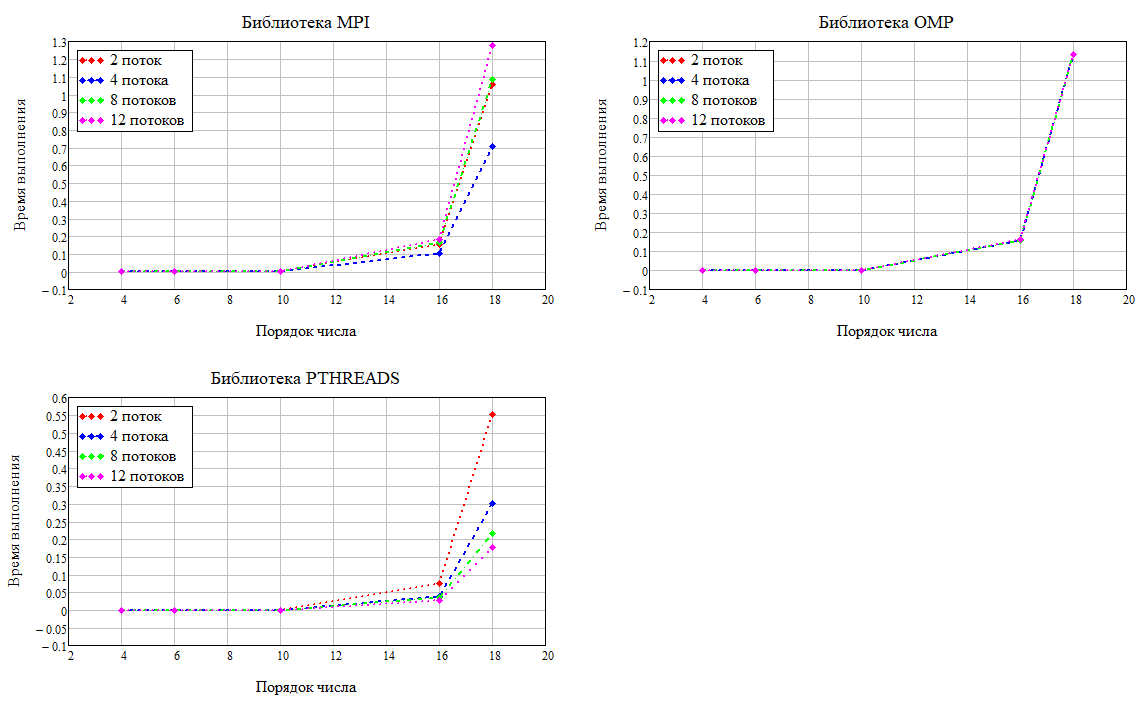
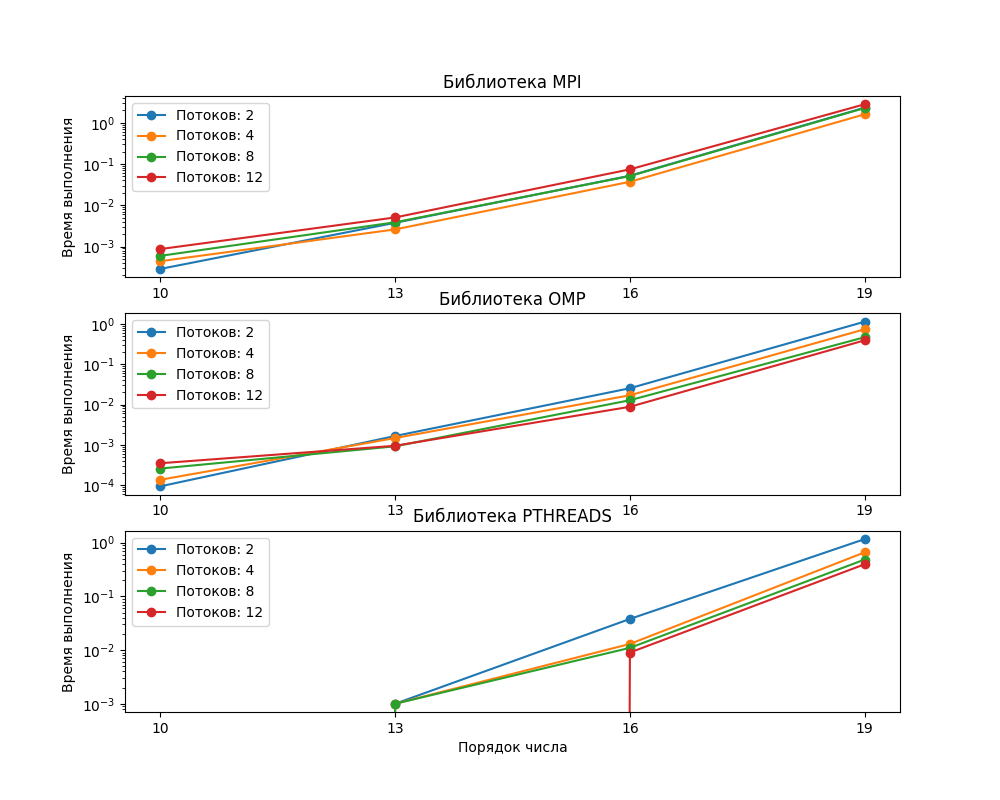
new output

diff --git a/output/executor.py b/output/executor.py
@@ -1,0 +1,99 @@
+import matplotlib.pyplot as plt
+import pandas as pd
+import numpy as np
+import subprocess
+import re
+
+path = 'C:\\Users\\Boom\\Desktop\\ParallelProgramming\\'
+lab_names = ['MPI', 'OMP', 'PTHREADS']
+exe_names = ['lab1.exe', 'lab2.exe', 'lab3.exe']
+
+threads_count = [2, 4, 8, 12]
+
+tests = {
+    '10': 1073676287,
+    '13': 4398042316799,
+    '16': 1125899839733759,
+    '19': 2305843009213693951,
+}
+sizes = [size for size in tests]
+
+lab_pathes = { lab_names[i]: path + exe_names[i] for i in range(len(lab_names)) }
+
+exec_results = dict.fromkeys(lab_names, dict)
+exec_relative = dict.fromkeys(lab_names, dict)
+
+def execute_programms(results_dict: dict):
+    for lname, results in results_dict.items():
+        for tcount, exectime in results.items():
+            if lname == 'MPI': cmd = f'mpiexec -n {tcount} {lab_pathes[lname]} '
+            else:              cmd = f'{lab_pathes[lname]} {tcount} '
+
+            for i in range(len(tests)):
+                value = tests[sizes[i]]
+                out = subprocess.run(cmd + f'{value}', capture_output=True).stdout
+                time = float(re.findall(r'Time: (\d+.\d*)', str(out))[0])
+                exectime[i] = time
+
+
+def plot_results(results_dict: dict):
+    fig, axs = plt.subplots(3, 1, figsize=(10, 8))
+
+    for lname, results in results_dict.items():
+        index = lab_names.index(lname)
+        for tcount, exectime in results.items():
+            axs[index].plot(sizes, exectime, marker='o', label=f'Потоков: {tcount}')
+        
+        axs[index].legend()
+        axs[index].set_yscale('log')
+        axs[index].set_ylabel('Время выполнения')
+        axs[index].set_title(f'Библиотека {lname}')
+
+    plt.xlabel('Порядок числа')
+        
+
+def barh_results(results_dict: dict):
+    plt.figure(figsize=(10, 8))
+
+    y_pos = np.arange(len(threads_count)) - 0.3
+    for lname, results in results_dict.items():
+        values = []
+        for tcount, time in results.items():
+            values.append(time)
+        plt.barh(y_pos, values, height=0.2, label=lname)
+        y_pos += 0.3
+
+    plt.legend()
+    plt.xlabel('Относительное время выполнения, %')
+
+    plt.yticks(y_pos - 0.6, threads_count)
+    plt.ylabel('Количество потоков')
+
+if __name__ == '__main__':
+    for lname in lab_names:
+        results = dict.fromkeys(threads_count)
+        rel_results = results.copy()
+
+        for tcount in threads_count:
+            results[tcount] = [None] * len(tests)
+            rel_results[tcount] = None
+
+        exec_results[lname] = results
+        exec_relative[lname] = rel_results
+    
+    execute_programms(exec_results)
+
+    itest = len(tests) - 1
+    maxtime = exec_results['MPI'][12][itest]
+    for lname in lab_names:
+        for tcount in threads_count:
+            exec_relative[lname][tcount] = exec_results[lname][tcount][itest] / maxtime * 100
+
+    plot_results(exec_results)
+    barh_results(exec_relative)
+    
+    print(pd.DataFrame(exec_results))
+    print(pd.DataFrame(exec_relative))
+
+    plt.show()
+    
